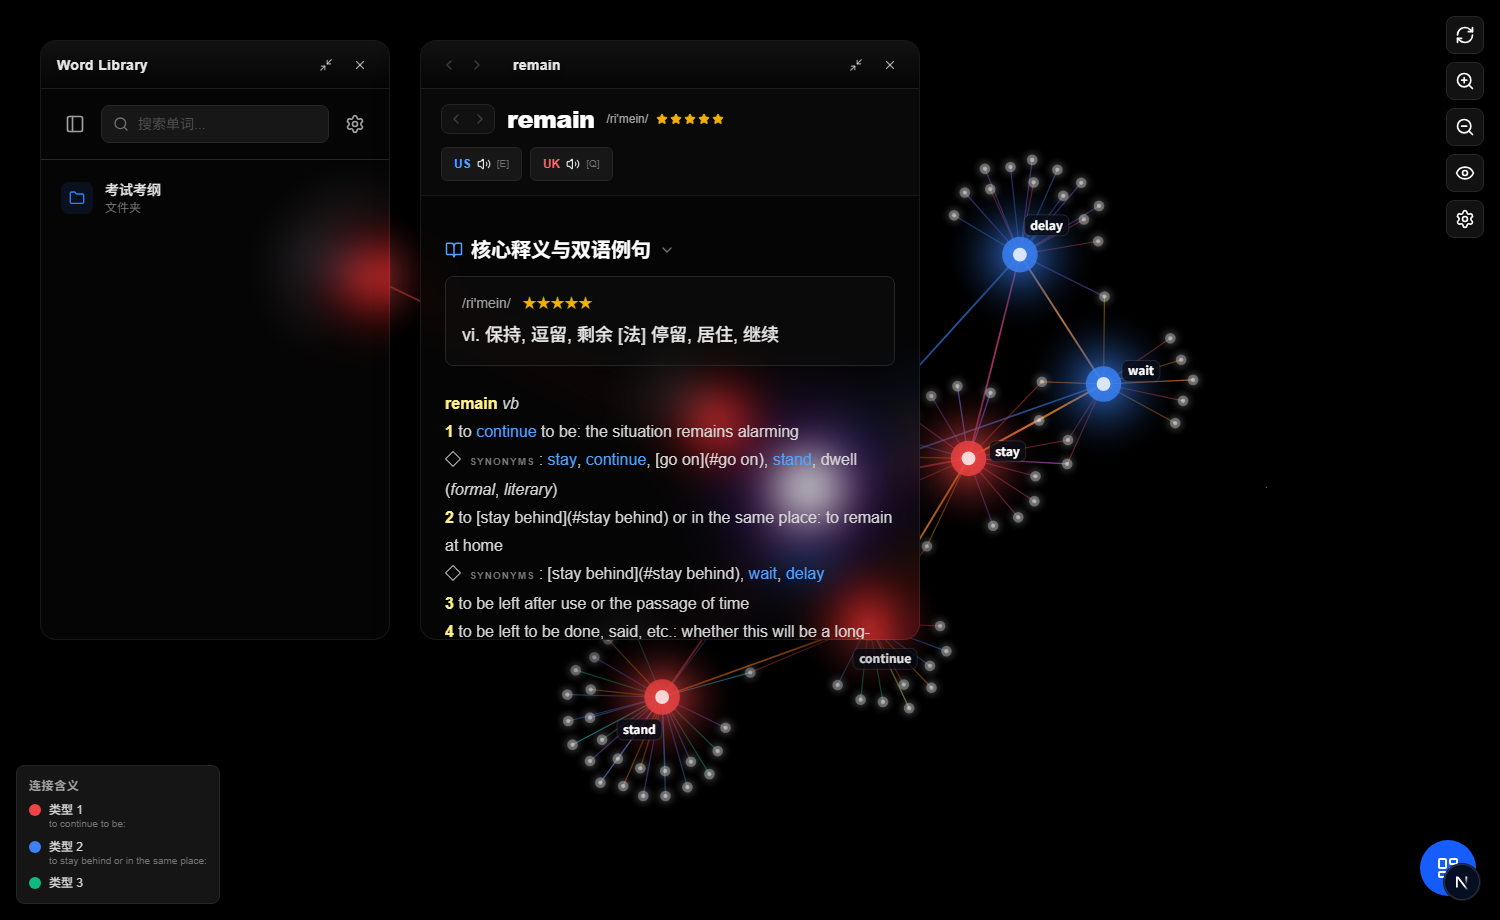
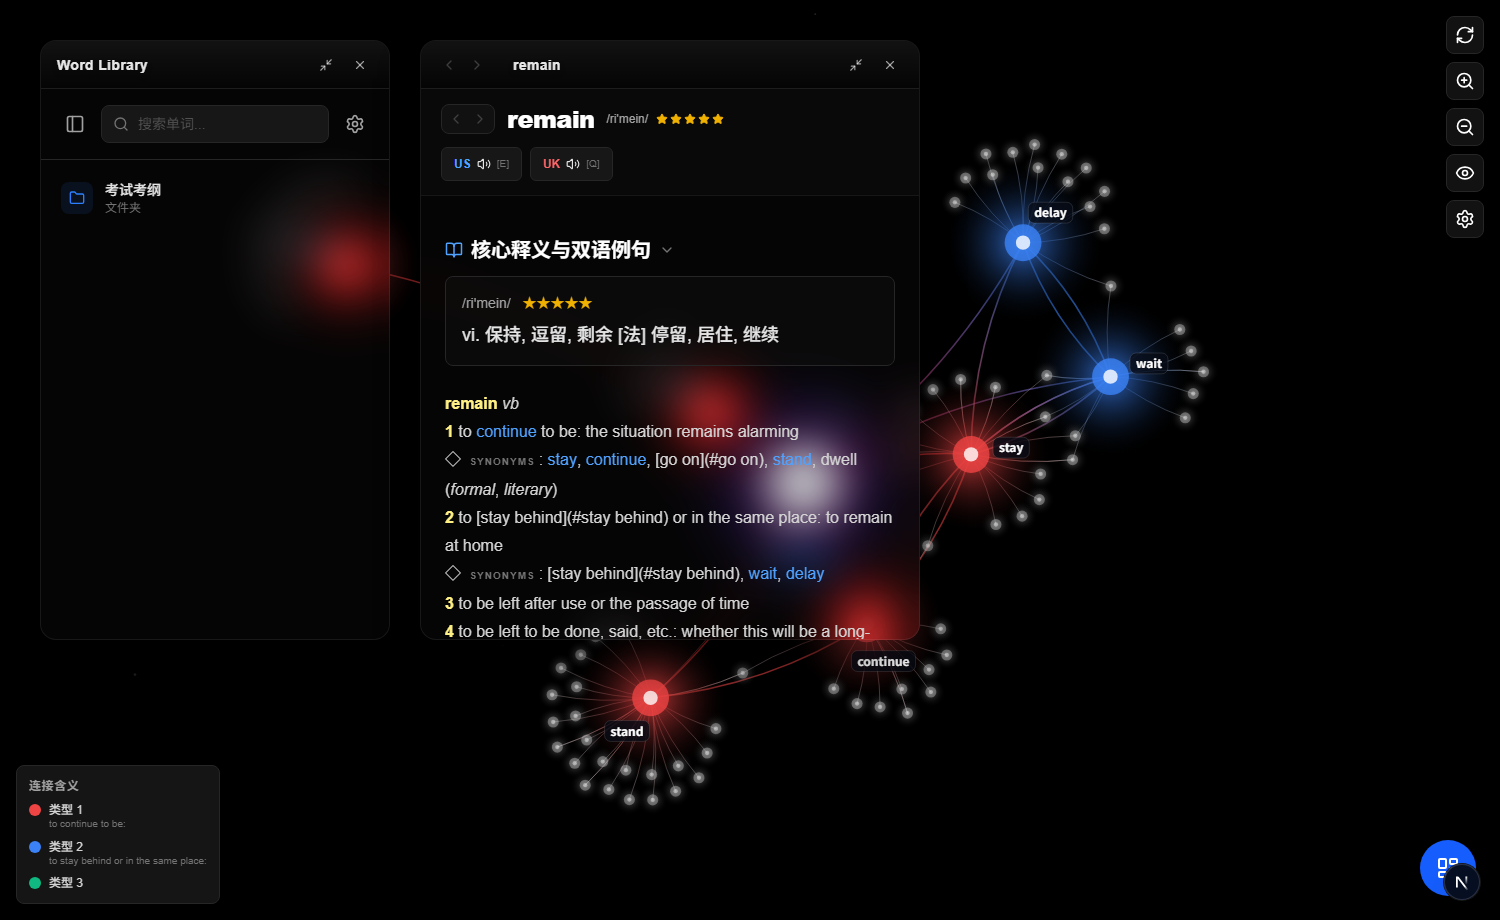
fix(graph): curved flowing light lines and clean 360 degree radial sector distribution

diff --git a/src/components/FissionGraph.tsx b/src/components/FissionGraph.tsx
@@ -824,19 +824,53 @@ export default function FissionGraph({ word, onNodeClick, mode = 'dashboard' }: 
                             start.id === hoveredNode.id || end.id === hoveredNode.id
                         );
 
-                        // Use the link's assigned color (based on meaning)
-                        // If no color, fallback to a default
-                        const linkColor = link.color || '#555';
-
                         const isL2 = (start.level === 2 || end.level === 2);
+                        const linkColor = link.color || '#38bdf8';
+                        const startColor = start.color || linkColor;
+                        const endColor = end.color || linkColor;
+
                         ctx.save();
-                        ctx.strokeStyle = linkColor;
-                        ctx.lineWidth = (isHighlighted ? 2.6 : (isL2 ? 1.2 : 1.8)) / globalScale;
-                        ctx.globalAlpha = isHighlighted ? 0.95 : (isL2 ? 0.45 : 0.65);
+                        ctx.lineCap = 'round';
+                        ctx.lineJoin = 'round';
+
+                        // Smooth organic curvature
+                        const dx = end.x - start.x;
+                        const dy = end.y - start.y;
+                        const dist = Math.sqrt(dx * dx + dy * dy) || 1;
+                        const curveFactor = isL2 ? 0.08 : 0.12;
+                        const startId = String(start.id || '');
+                        const endId = String(end.id || '');
+                        const sign = ((startId.charCodeAt(0) || 0) + (endId.charCodeAt(0) || 0)) % 2 === 0 ? 1 : -1;
+                        const midX = (start.x + end.x) / 2 - (dy / dist) * (dist * curveFactor * sign);
+                        const midY = (start.y + end.y) / 2 + (dx / dist) * (dist * curveFactor * sign);
+
+                        // Ethereal linear gradient along the light curve
+                        const gradient = ctx.createLinearGradient(start.x, start.y, end.x, end.y);
+                        gradient.addColorStop(0, startColor);
+                        gradient.addColorStop(1, endColor);
+                        ctx.strokeStyle = gradient;
+
+                        ctx.lineWidth = (isHighlighted ? 2.5 : (isL2 ? 1.0 : 1.6)) / globalScale;
+                        ctx.globalAlpha = isHighlighted ? 0.95 : (isL2 ? 0.35 : 0.6);
+
                         ctx.beginPath();
                         ctx.moveTo(start.x, start.y);
-                        ctx.lineTo(end.x, end.y);
+                        ctx.quadraticCurveTo(midX, midY, end.x, end.y);
                         ctx.stroke();
+
+                        // Subtle flowing energy pulse when connection is highlighted
+                        if (isHighlighted) {
+                            const time = (Date.now() / 1000) * 1.5;
+                            const t = (time % 1);
+                            const px = (1 - t) * (1 - t) * start.x + 2 * (1 - t) * t * midX + t * t * end.x;
+                            const py = (1 - t) * (1 - t) * start.y + 2 * (1 - t) * t * midY + t * t * end.y;
+
+                            ctx.fillStyle = '#ffffff';
+                            ctx.beginPath();
+                            ctx.arc(px, py, 2.5 / globalScale, 0, 2 * Math.PI);
+                            ctx.fill();
+                        }
+
                         ctx.restore();
                     }}
 

diff --git a/src/components/PanelFissionGraph.tsx b/src/components/PanelFissionGraph.tsx
@@ -910,19 +910,51 @@ export default function PanelFissionGraph({ word, onNodeClick }: PanelFissionGra
                     const isHighlighted = Boolean(hoveredId && (startId === hoveredId || endId === hoveredId));
                     const isRelated = Boolean(hoveredId && (isHighlighted || isGraphLinkBetween(link, hoveredId, startId || '') || isGraphLinkBetween(link, hoveredId, endId || '')));
 
-                    // Use the link's assigned color (based on meaning)
-                    // If no color, fallback to a default
-                    const linkColor = link.color || '#555';
-
                     const isL2 = (start.level === 2 || end.level === 2);
+                    const linkColor = link.color || '#38bdf8';
+                    const startColor = start.color || linkColor;
+                    const endColor = end.color || linkColor;
+
                     ctx.save();
-                    ctx.strokeStyle = linkColor;
-                    ctx.lineWidth = (isHighlighted ? 2.6 : (isL2 ? 1.2 : 1.8)) / globalScale;
-                    ctx.globalAlpha = hoveredNode && !isRelated ? 0.15 : (isHighlighted ? 0.95 : (isL2 ? 0.45 : 0.65));
+                    ctx.lineCap = 'round';
+                    ctx.lineJoin = 'round';
+
+                    // Smooth organic curvature to prevent harsh spiky lines
+                    const dx = end.x - start.x;
+                    const dy = end.y - start.y;
+                    const dist = Math.sqrt(dx * dx + dy * dy) || 1;
+                    const curveFactor = isL2 ? 0.08 : 0.12;
+                    const sign = ((startId?.charCodeAt(0) || 0) + (endId?.charCodeAt(0) || 0)) % 2 === 0 ? 1 : -1;
+                    const midX = (start.x + end.x) / 2 - (dy / dist) * (dist * curveFactor * sign);
+                    const midY = (start.y + end.y) / 2 + (dx / dist) * (dist * curveFactor * sign);
+
+                    // Ethereal linear gradient along the light curve
+                    const gradient = ctx.createLinearGradient(start.x, start.y, end.x, end.y);
+                    gradient.addColorStop(0, startColor);
+                    gradient.addColorStop(1, endColor);
+                    ctx.strokeStyle = gradient;
+
+                    ctx.lineWidth = (isHighlighted ? 2.5 : (isL2 ? 1.0 : 1.6)) / globalScale;
+                    ctx.globalAlpha = hoveredNode && !isRelated ? 0.12 : (isHighlighted ? 0.95 : (isL2 ? 0.35 : 0.6));
+
                     ctx.beginPath();
                     ctx.moveTo(start.x, start.y);
-                    ctx.lineTo(end.x, end.y);
+                    ctx.quadraticCurveTo(midX, midY, end.x, end.y);
                     ctx.stroke();
+
+                    // Subtle flowing energy pulse when connection is highlighted
+                    if (isHighlighted) {
+                        const time = (Date.now() / 1000) * 1.5;
+                        const t = (time % 1);
+                        const px = (1 - t) * (1 - t) * start.x + 2 * (1 - t) * t * midX + t * t * end.x;
+                        const py = (1 - t) * (1 - t) * start.y + 2 * (1 - t) * t * midY + t * t * end.y;
+
+                        ctx.fillStyle = '#ffffff';
+                        ctx.beginPath();
+                        ctx.arc(px, py, 2.5 / globalScale, 0, 2 * Math.PI);
+                        ctx.fill();
+                    }
+
                     ctx.restore();
                 }}
 
